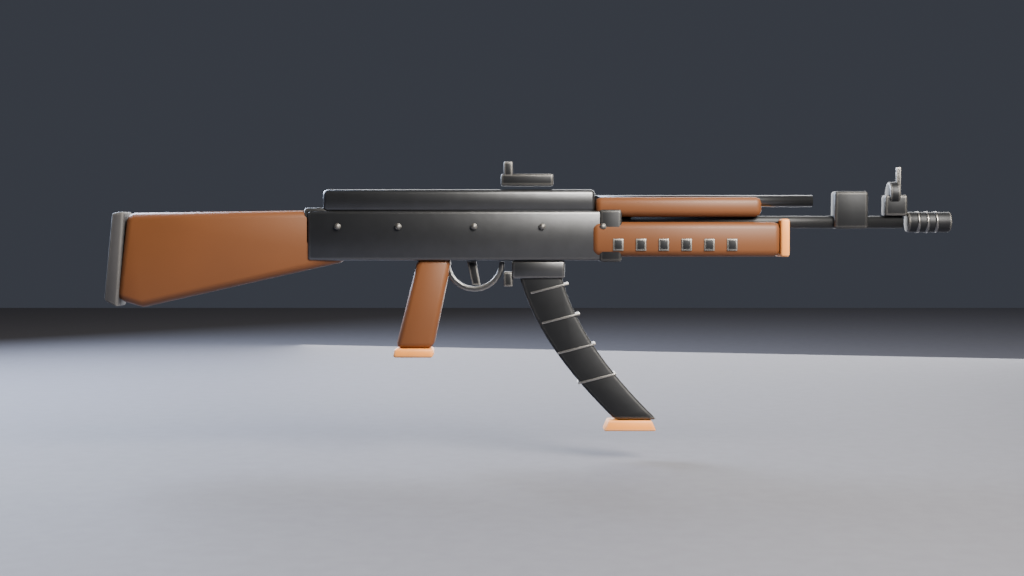
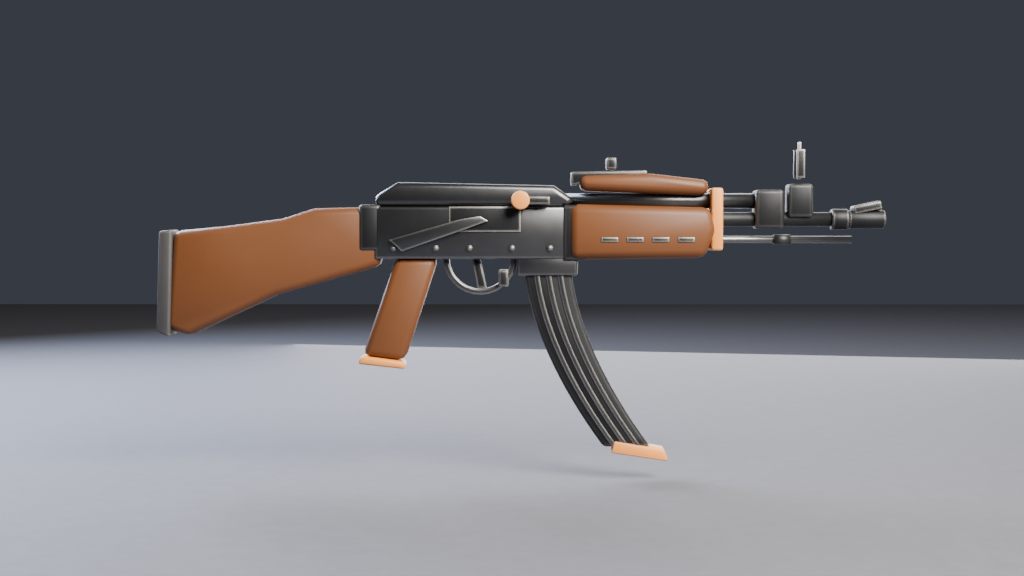
feat(art): AK rifle fixes (front sight, magazine curve) and renders
Claude-Session: https://claude.ai/code/session_01HYo6EY2kdMycxCeuxVvdPV

Changed region(s): [[0.0938, 0.25, 0.9375, 0.8125]]

diff --git a/tools/art/rifle.py b/tools/art/rifle.py
@@ -48,7 +48,7 @@ add(profile('RearSightRamp', [(0.12, 0.052), (0.21, 0.064), (0.21, 0.070), (0.12
 add(box('RearSightLeaf', (0.012, 0.028, 0.014), (0.168, 0, 0.078), 0.002, dark))
 # ---- guarda-mãos de madeira
 add(profile('HandguardLower', [(0.118, 0.030), (0.285, 0.026), (0.292, -0.002), (0.278, -0.034), (0.118, -0.036)], 0.054, wood, 0.010))
-add(profile('HandguardUpper', [(0.130, 0.046), (0.280, 0.040), (0.284, 0.058), (0.215, 0.066), (0.130, 0.064)], 0.040, wood, 0.008))
+add(profile('HandguardUpper', [(0.130, 0.030), (0.280, 0.028), (0.284, 0.058), (0.215, 0.066), (0.130, 0.064)], 0.040, wood, 0.008))
 add(box('HandguardRetainer', (0.014, 0.046, 0.074), (0.292, 0, 0.012), 0.003, fox))
 for i in range(4):
     add(box(f'Groove{i}', (0.020, 0.0565, 0.006), (0.165 + i * 0.03, 0, -0.012), 0.0008, dark))
@@ -57,10 +57,10 @@ add(cyl('Barrel', 0.0085, 0.50, (0.235, 0, 0.012), 'X', dark))
 add(cyl('GasTube', 0.0090, 0.255, (0.235, 0, 0.034), 'X', steel))
 add(cyl('CleaningRod', 0.0042, 0.34, (0.285, 0, -0.012), 'X', steel))
 add(box('GasBlock', (0.034, 0.030, 0.046), (0.355, 0, 0.024), 0.004, dark))
-add(box('FrontSightBase', (0.030, 0.024, 0.040), (0.392, 0, 0.034), 0.004, dark))
-add(box('FrontEarL', (0.010, 0.004, 0.034), (0.392, 0.0095, 0.078), 0.001, dark))
-add(box('FrontEarR', (0.010, 0.004, 0.034), (0.392, -0.0095, 0.078), 0.001, dark))
-add(box('FrontPost', (0.004, 0.004, 0.044), (0.392, 0, 0.082), 0.0005, dark))
+add(box('FrontSightBase', (0.030, 0.024, 0.064), (0.392, 0, 0.044), 0.004, dark))
+add(box('FrontEarL', (0.010, 0.004, 0.034), (0.392, 0.0095, 0.084), 0.001, dark))
+add(box('FrontEarR', (0.010, 0.004, 0.034), (0.392, -0.0095, 0.084), 0.001, dark))
+add(box('FrontPost', (0.004, 0.004, 0.044), (0.392, 0, 0.090), 0.0005, dark))
 add(cyl('BayonetLug', 0.006, 0.020, (0.372, 0, -0.012), 'X', dark))
 add(cyl('MuzzleNut', 0.0125, 0.020, (0.440, 0, 0.012), 'X', dark, bevel=0.002))
 add(cyl('MuzzleBrake', 0.0112, 0.044, (0.472, 0, 0.012), 'X', dark, bevel=0.002))
@@ -77,7 +77,7 @@ trig.name = 'Trigger'
 parts.append(trig)
 # ---- carregador banana com nervuras (peça móvel; as nervuras são filhas dele)
 def centerline(n=16):
-    return [(0.092 + 0.095 * (i / n) ** 1.75, -0.034 - 0.225 * (i / n)) for i in range(n + 1)]
+    return [(0.092 + 0.125 * (i / n) ** 1.5, -0.034 - 0.225 * (i / n)) for i in range(n + 1)]
 
 
 def band(dx0, dx1, n=16):
@@ -93,7 +93,7 @@ for i, dx in enumerate((-0.014, 0.0, 0.014)):
     r = profile(f'MagRib{i}', band(dx - 0.0035, dx + 0.0035), 0.0305, steel, 0.0008)
     r.parent = mag
     ribs.append(r)
-add(profile('MagFloor', [(0.172, -0.252), (0.232, -0.262), (0.236, -0.276), (0.168, -0.266)], 0.034, fox, 0.002))
+add(profile('MagFloor', [(0.187, -0.254), (0.250, -0.266), (0.254, -0.280), (0.183, -0.270)], 0.034, fox, 0.002))
 add(box('MagWell', (0.072, 0.036, 0.026), (0.092, 0, -0.042), 0.003, steel))
 add(box('MagCatch', (0.012, 0.030, 0.020), (0.040, 0, -0.058), 0.002, dark))
 # alavanca de armar (lado direito, com a bolinha laranja)
